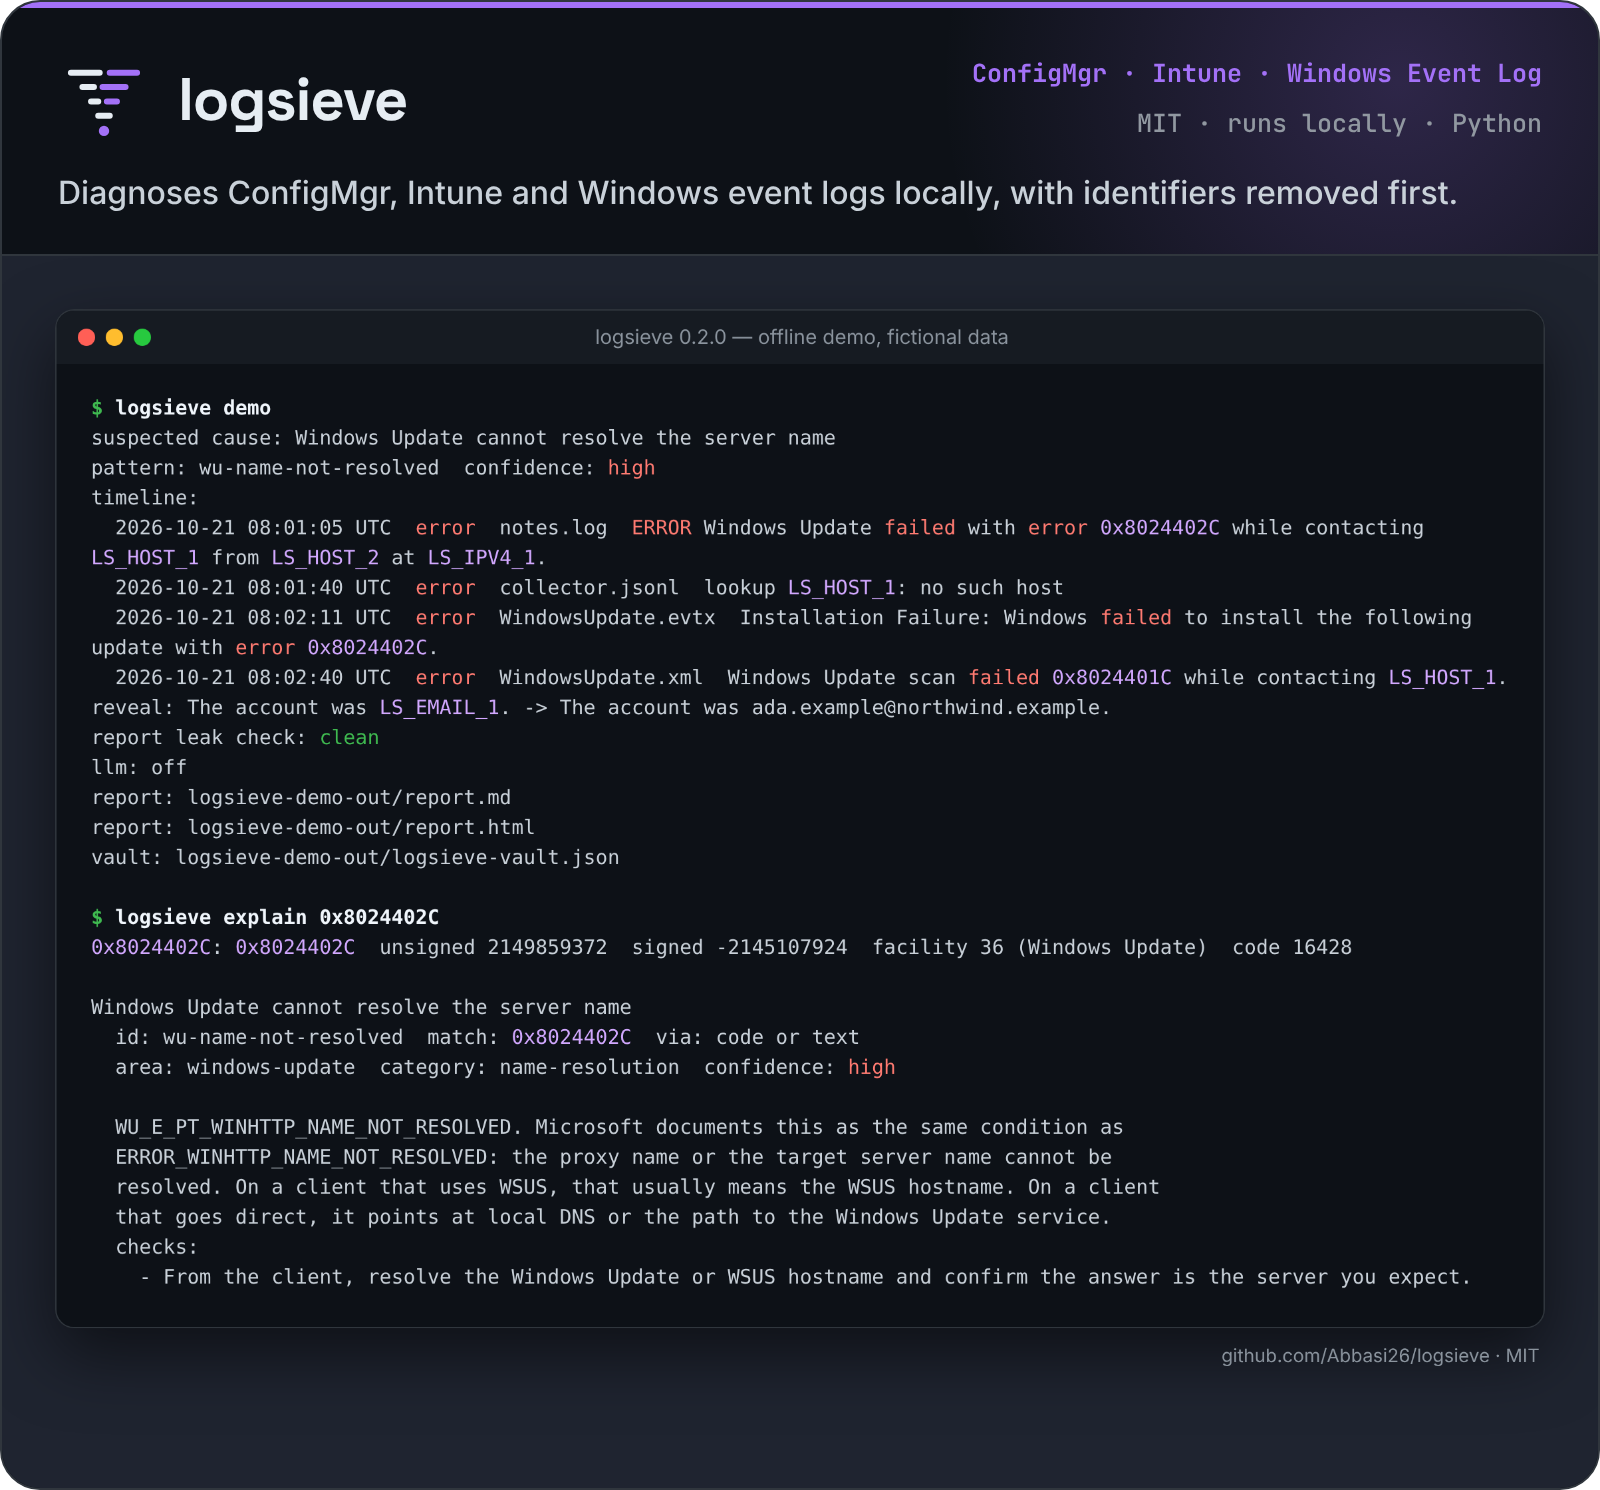
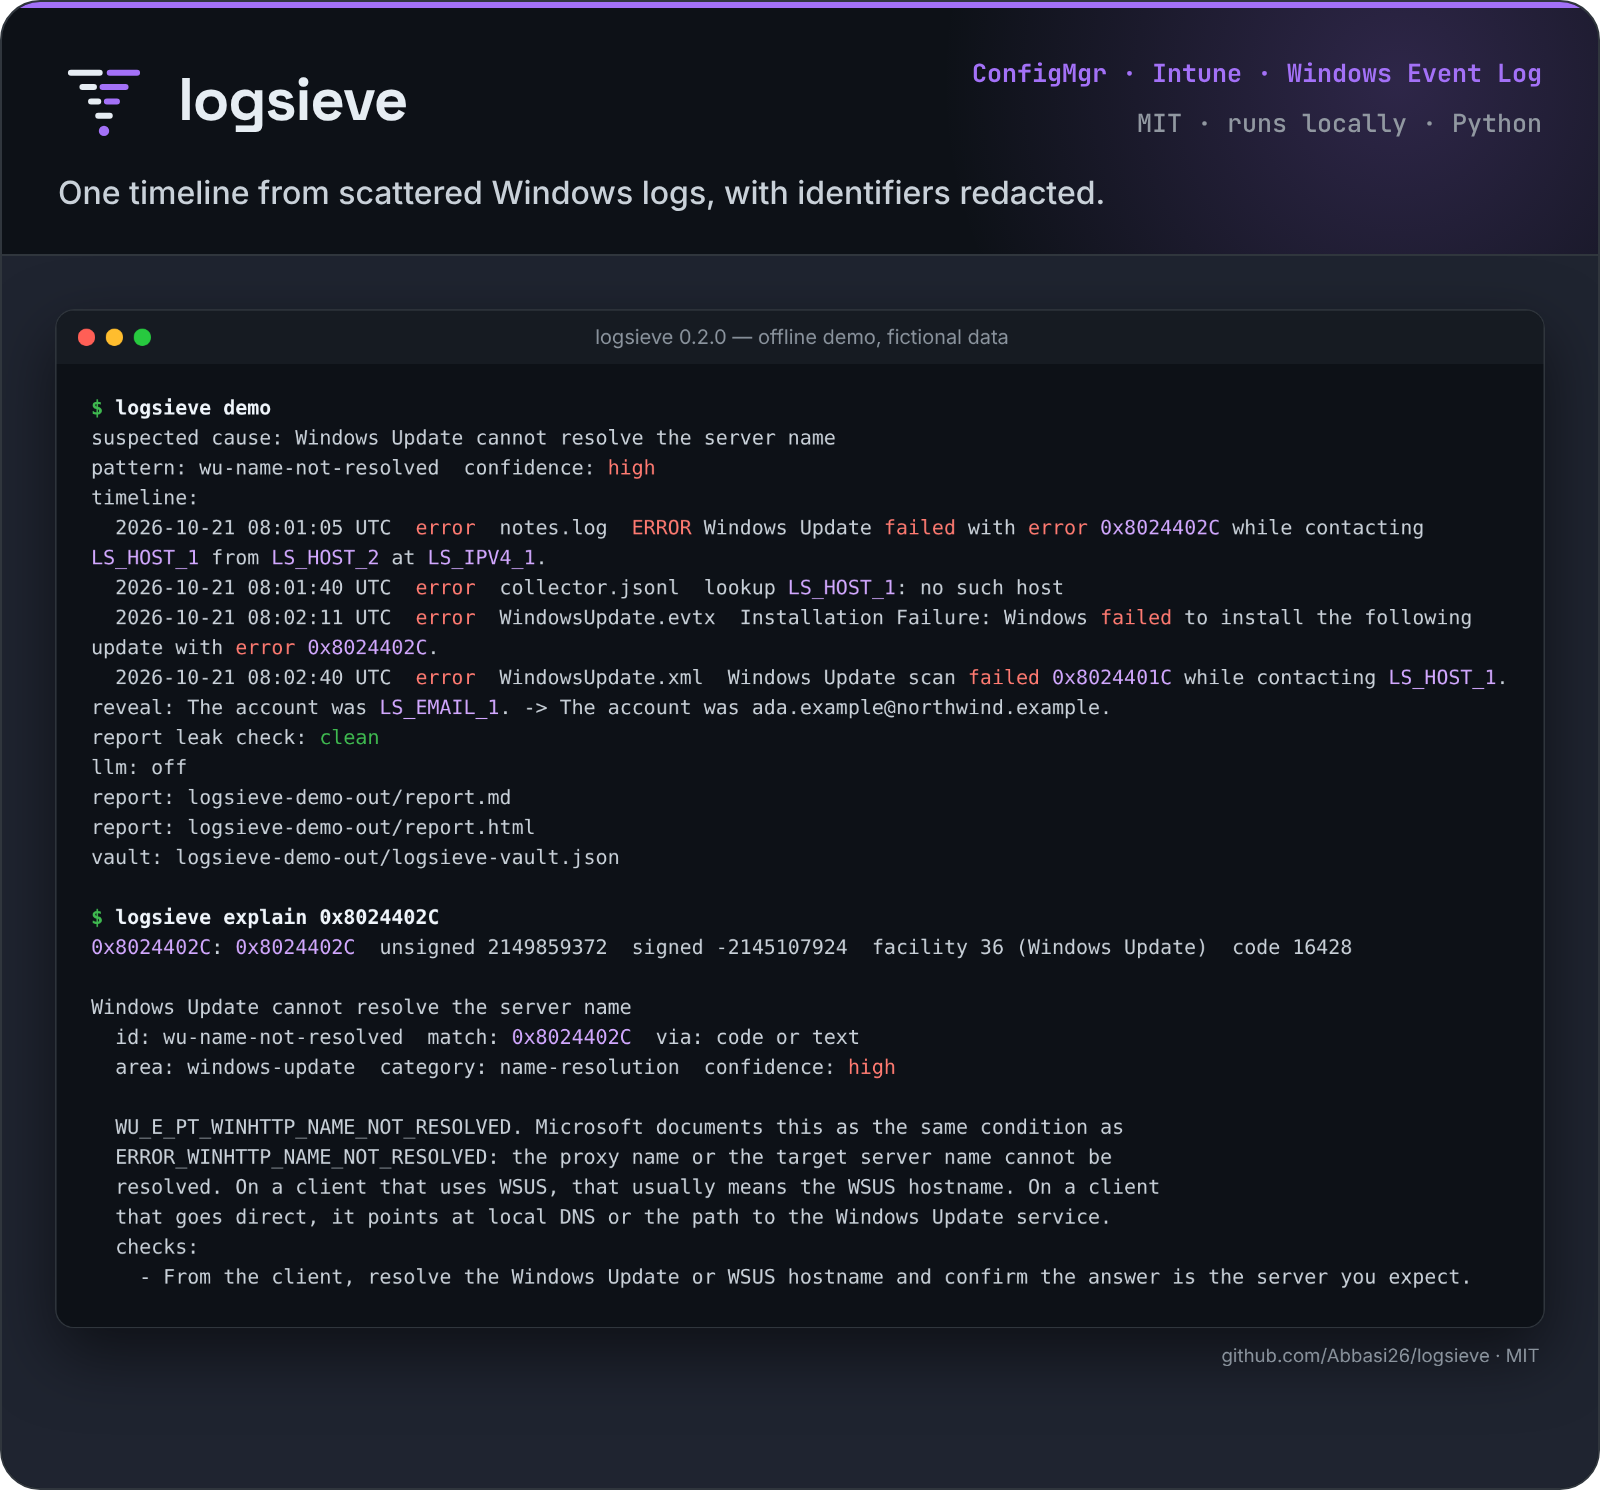
docs: update README header and hero from revised assets
Replaces the hero image, social preview and README header block with the revised design; the original title and the rest of the README are unchanged.

Changed region(s): [[0.0312, 0.1235, 0.9062, 0.1544]]

diff --git a/README.md b/README.md
@@ -6,7 +6,7 @@
   </picture>
 </p>
 
-<p align="center">Diagnoses ConfigMgr, Intune and Windows event logs locally, with identifiers removed first.</p>
+<p align="center">One timeline from scattered Windows logs, with identifiers redacted.</p>
 
 <p align="center">
   <img src="docs/assets/readme-hero.png" width="800" alt="Terminal output of logsieve demo: suspected cause, a redacted error timeline with LS_HOST tokens, a reveal line, report leak check clean, llm off, and logsieve explain 0x8024402C.">
